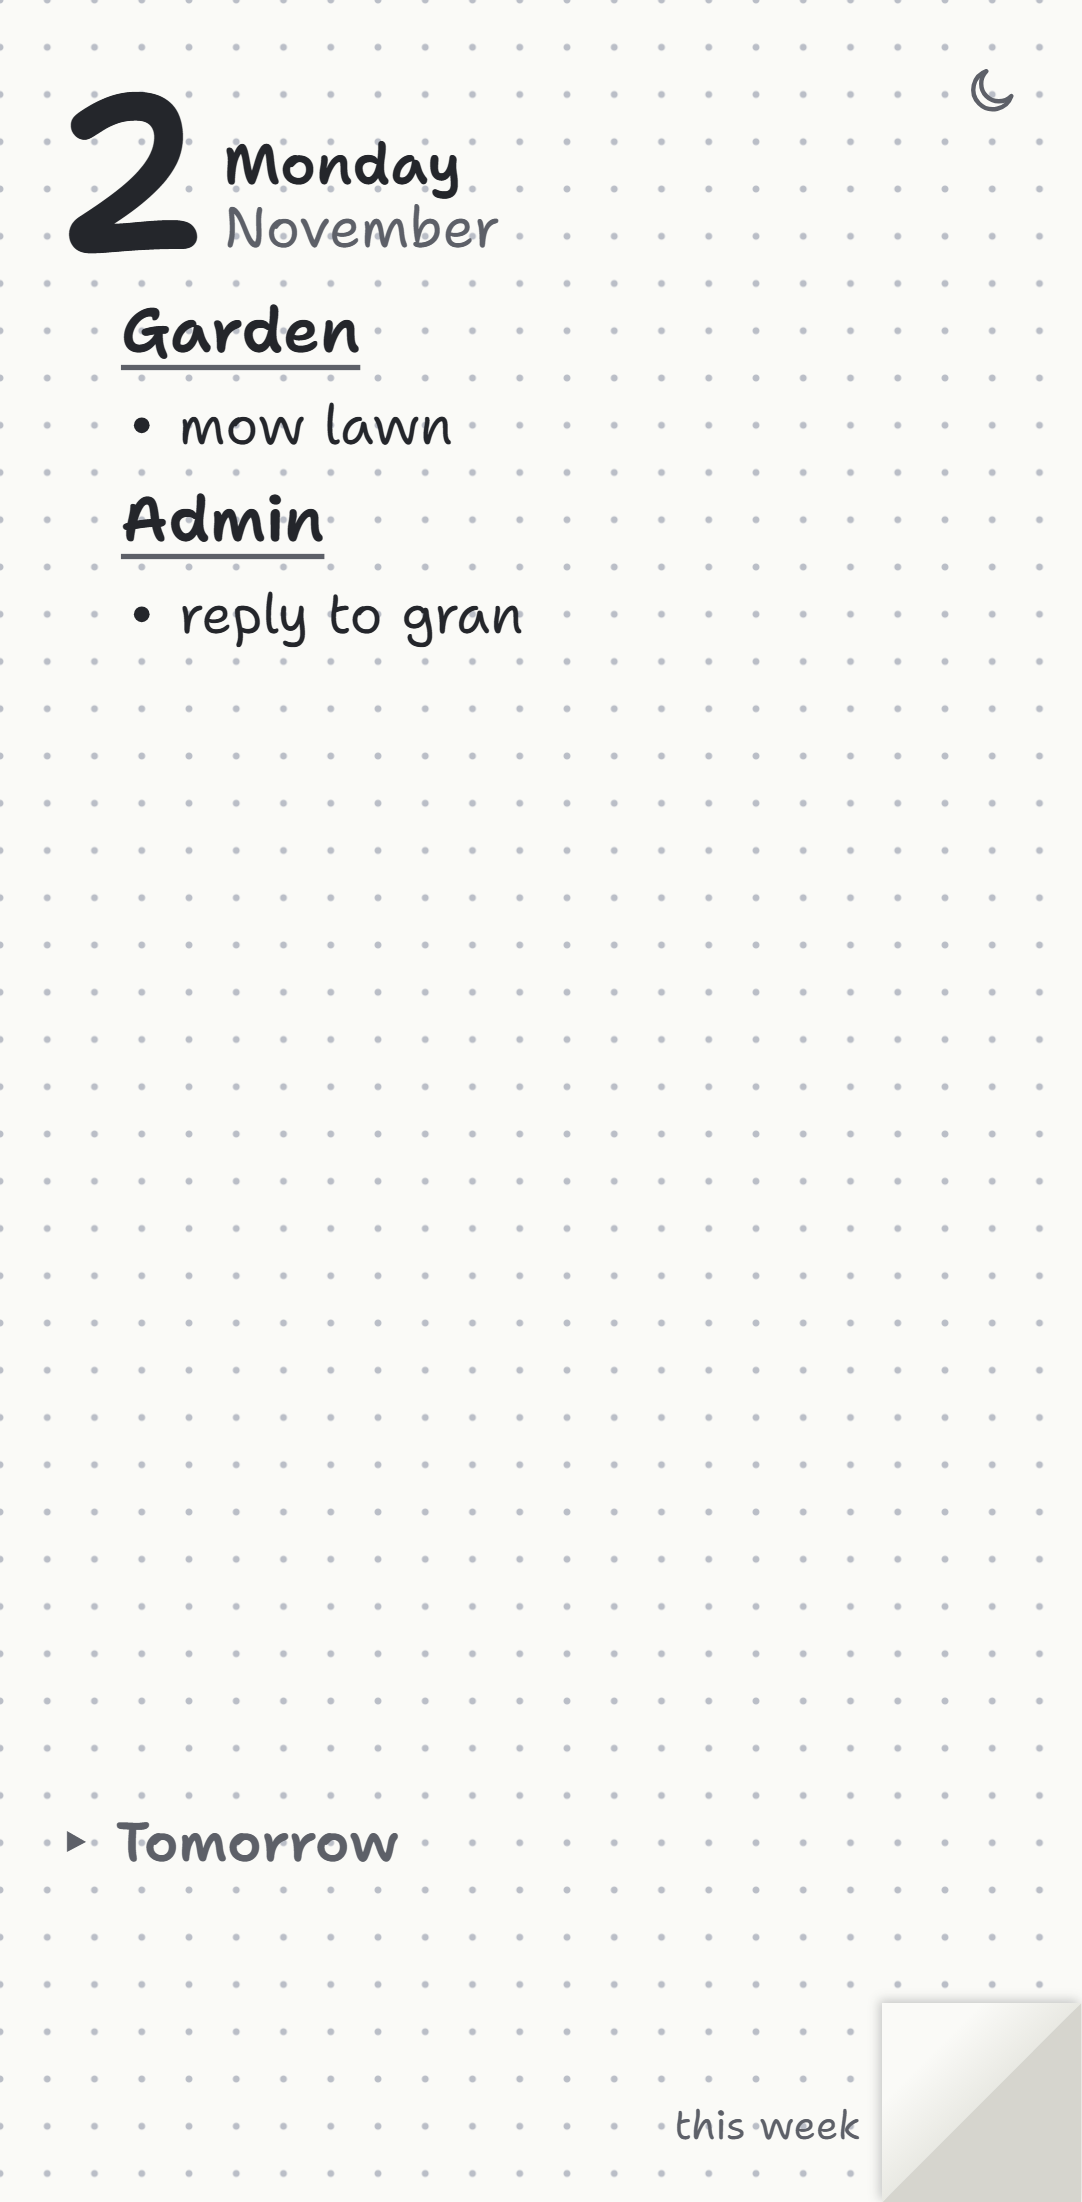
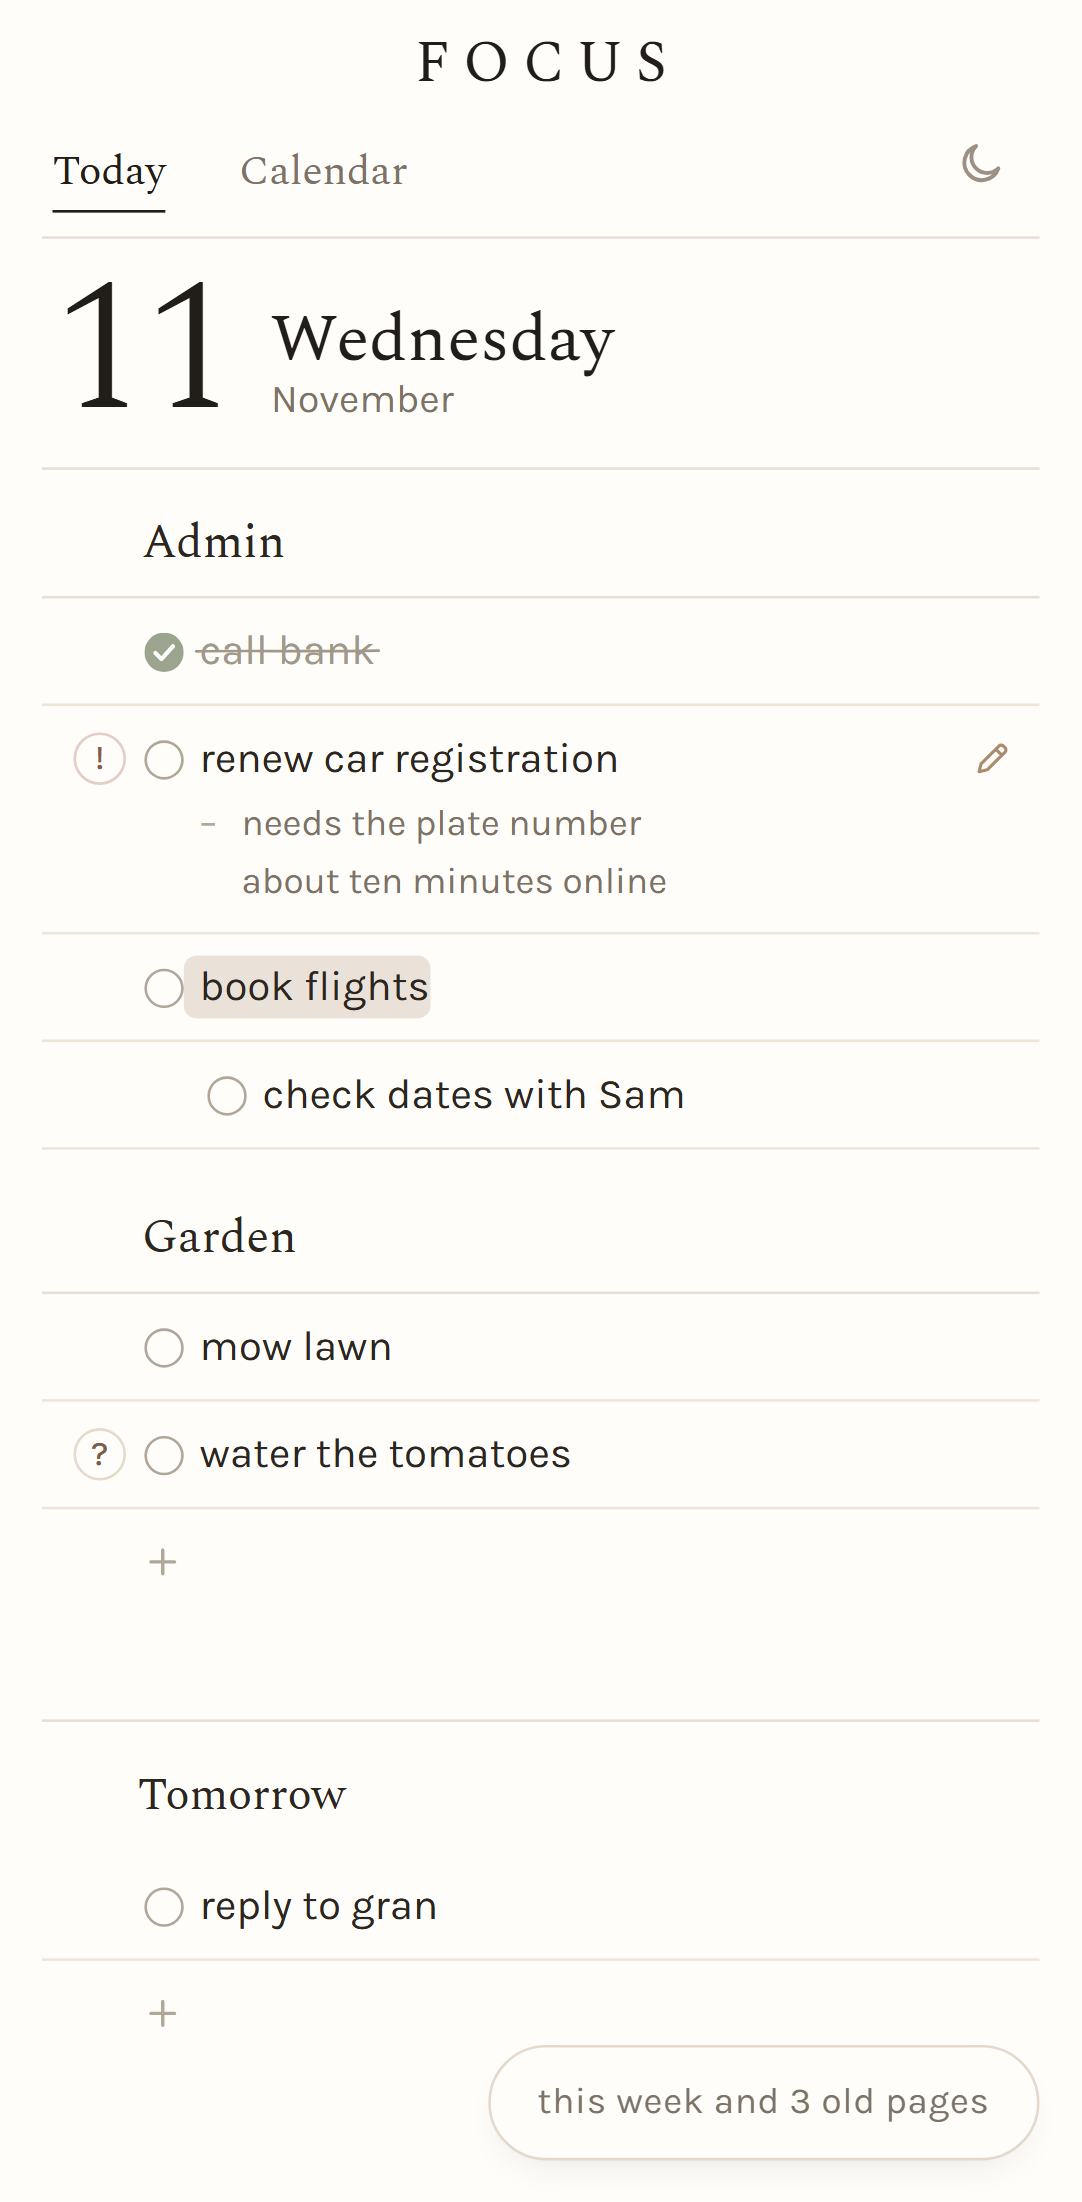
docs: describe FOCUS in the README and spec
New name, screenshots of the new look and the calendar, the calendar in
the feature list and test counts, and where the name came from. The spec
replaces the dot-grid layout with the FOCUS one, adds the header and the
calendar, and restates the core rule now that coming days can hold lines.

diff --git a/docs/spec.md b/docs/spec.md
@@ -1,6 +1,6 @@
-# Today: design spec
+# FOCUS: design spec
 
-Written 2026-10-02.
+Written 2026-10-02 as Today. Renamed and restyled as FOCUS, with a header and a calendar, on 2026-11-11.
 
 ## 1. Purpose
 
@@ -17,7 +17,7 @@ Plus: paper is a pleasant canvas with room for personal expression.
 
 **Success.** The user opens this each morning instead of reaching for paper, and keeps doing so after the novelty wears off.
 
-**Core rule.** The app holds today, and nothing else. No backlog, projects, tags, due dates, priorities, reminders, stats or streaks. Headings can group a page's lines the way they would on paper, but they are written words, not projects: nothing about them is kept between days.
+**Core rule.** The app opens on today, and today is where the work happens. A calendar holds lines written for coming days and shows the days gone by, and that is all it does. No projects, tags, due dates, priorities, reminders, stats or streaks: a line's date is the day it is written on, not a deadline. Headings can group a page's lines the way they would on paper, but they are written words, not projects: nothing about them is kept between days.
 
 ## 2. Platforms
 
@@ -25,11 +25,11 @@ Phone and laptop. Installable web app (PWA), one codebase, synced between device
 
 ## 3. Experience
 
-Layout: a dot-grid journal. Dot-grid paper, a handwritten-style font, the day's date as a large numeral at the top. Wide screens show the journal open: today on the left page, This week and old pages on the right. The open journal fills the window and grows with it (up to one and a half times its normal size on very wide screens). Phones show one page at a time, and a folded corner turns to the other. Parked alternatives: free page and desk scraps.
+Layout: the FOCUS design. Warm paper colours, a serif (Spectral) for headings and a sans (Karla) for lines, hairline rules and pill buttons. A header runs across the top: the FOCUS wordmark, links to the two views (Today and Calendar), and the cloud and moon. On Today the day's date is a large numeral at the top. Wide screens show two panels side by side, centred and at most 68rem across: today on the left, This week and old pages on the right. Type grows only a little with the window (up to 1.125 times on very wide screens). Phones show one page at a time, and a button in the corner turns to the other. Retired: the dot-grid journal the app began with. Parked alternatives: free page and desk scraps.
 
 | Action | Desktop | Phone |
 |---|---|---|
-| Open | Lands on today's page, cursor on first empty line. No splash, no menu. | Same |
+| Open | Lands on today's page, cursor on first empty line. No splash. | Same |
 | Write a task | Type, Enter for next line | Type, Return for next line |
 | Edit a task | Click the text | Tap the text |
 | Make a sub-step | Tab (Shift+Tab to undo) | ⇥ / ⇤ buttons in a bar above the keyboard while editing |
@@ -38,9 +38,9 @@ Layout: a dot-grid journal. Dot-grid paper, a handwritten-style font, the day's 
 | Margin mark | Click the margin to cycle: none, star (highlights the line), !, ? | Tap the margin |
 | Make a heading | Start the line with `# ` or end it with `:` | Same |
 | Delete | Backspace on an empty line, or drag the line into the bin at the bottom right of the week page | Backspace on an empty line, or long-press and drag the line into the bin that appears above the corners |
-| Night pages | Click the moon in today's header | Tap the moon |
+| Night pages | Click the moon in the header | Tap the moon |
 
-- Each line starts with a bullet dot. Crossing off turns the dot into a cross and draws a thin pen stroke across the text. Crossed-off tasks stay on the page, greyed.
+- Each line starts with a ring. Crossing off fills the ring with a tick and draws a thin stroke across the text. Crossed-off tasks stay on the page, greyed.
 - Sub-steps are one level deep only (indent 0 or 1).
 - ! and ? sit in the margin; a star highlights the line instead. Freehand drawing is not in v1.
 - Crossing off is a horizontal stroke across the line, like running a pen through it. The same stroke across a crossed-off task un-crosses it. Tap/click only ever places the cursor for editing.
@@ -53,19 +53,22 @@ Layout: a dot-grid journal. Dot-grid paper, a handwritten-style font, the day's 
 
 **Notes.** Any task or goal can hold a free-text note, like writing on the back of the card. A small pencil at the end of a line (shown while you're on the line, always when a note exists) unfolds the note in place under the line; Escape or the pencil folds it. Enter adds a new line inside the note. Notes move with their line everywhere and are read-only on old pages. A line with blank text but a note still counts as a real line.
 
-**Week goals.** This week holds a few bigger aims for the week, at the top of the right-hand page (the second page on phones). Type a goal in, or drag a task from today onto it (the task moves); on a phone, drop the task on the folded corner. Drag a goal back onto today's page to move it back; on a phone, drop it on the "back to today" corner. Goals cross off with the same stroke as tasks and can be reordered. A week runs Monday to Sunday on the same 4am boundary. When a new week starts, the week offers last week's unfinished goals with a Bring all / pick / dismiss note.
+**Week goals.** This week holds a few bigger aims for the week, at the top of the right-hand page (the second page on phones). Type a goal in, or drag a task from today onto it (the task moves); on a phone, drop the task on the corner button. Drag a goal back onto today's page to move it back; on a phone, drop it on the "back to today" corner. Goals cross off with the same stroke as tasks and can be reordered. A week runs Monday to Sunday on the same 4am boundary. When a new week starts, the week offers last week's unfinished goals with a Bring all / pick / dismiss note.
 
 **Bin.** Any line (a task, a goal or an old line) can be dragged into the bin to throw it away. A slip then shows the line's words with an undo for five seconds, held while the pointer or focus is on it. Undo, or Ctrl+Z while the slip shows, puts the line back where it was. Only the last bin can be undone.
 
-**Night pages.** A moon in today's header turns the journal dark: black pages, white ink, pink crossing off. The choice is remembered on the device.
+**Night pages.** A moon in the header turns the app dark: warm near-black panels and light text. The choice is remembered on the device.
 
-**Not in v1:** browsing past days beyond old pages, settings (the night switch is the only one), reminders/notifications, stats/streaks, themes beyond night pages, freehand drawing, sharing.
+**Calendar.** The second view. A month, Monday first, where each day shows a small copy of its list: one ring per line, filled when the line is crossed off, up to four marks ("+n" stands in for the rest). Arrows turn the month, "Go to today" comes back, and the arrow keys move the picked day. The picked day's lines show beside the month (under it on phones). Today or a coming day is a page to write on, with the same lines, sub-steps, marks, notes, reordering and bin as today's page. A past day shows its lines as they were left, read only: they can be crossed off, and an open line can be sent to the end of today with >. The view is kept in the address (`#calendar`), so a reload stays on it.
+
+**Not in v1:** a time of day on a line, settings (the night switch is the only one), reminders/notifications, stats/streaks, themes beyond night pages, freehand drawing, sharing.
 
 ## 4. Day rules
 
 - Logical day = date of (device local time minus 4 hours). 02:30 Friday belongs to Thursday.
 - The page shown is always the current logical day. If the app is left open across 04:00, it switches to the new day on next focus or interaction.
 - Tomorrow's lines are tasks dated the next logical day. At 04:00 they are the new day's lines, with nothing copied.
+- A line written on any coming day in the calendar is a task dated that day, the same as Tomorrow's lines. When that day arrives it is on today's page, with nothing copied.
 - A day ends at 04:00 on the next calendar day. An old page shows that day's lines that were unfinished when it ended: still open, or crossed off since (`done_at` after the day end). Blank and deleted lines never count.
 - An old page appears for every earlier day with at least one such line, unless its day record is `binned`.
 - Moving a line off an old page soft-deletes it there and creates it on today (same `text`, `indent`, `mark`) or as a goal, always open.
@@ -147,12 +150,12 @@ Stack: React + TypeScript + Vite, vite-plugin-pwa, Dexie, Supabase JS client, Ve
 
 | unit | job | depends on |
 |---|---|---|
-| `day` | pure functions: logical day from a Date, old page lines, week maths | nothing |
+| `day` | pure functions: logical day from a Date, old page lines, week maths, the calendar's month grid | nothing |
 | `order` | pure functions: fractional position between two positions | nothing |
 | `store` | local reads/writes of tasks and days; sets `updated_at`; exposes live queries to the UI | Dexie |
 | `sync` | push/pull between store and Supabase; conflict resolution | store, Supabase client |
 | `auth` | username and password sign-in, session state | Supabase client |
-| UI | notebook page, task line, old pages, sync card | store, day, order, auth |
+| UI | header, today's page, task line, old pages, calendar, sync card | store, day, order, auth |
 
 The UI never calls Supabase directly. It only reads and writes `store`.
 
@@ -175,9 +178,9 @@ Rule: nothing ever stops the user writing.
 
 ## 8. Testing
 
-1. **Unit (Vitest):** `day` (04:00 boundary both sides, old page lines either side of the day end), `order` (positions between, before first, after last, many inserts), `sync` merge (newer wins, deletes propagate), heading detection (`# ` and trailing `:`, a symbol alone is not a heading, `#1` is not a heading), old page lines with headings.
-2. **Component (Vitest + Testing Library):** Enter creates a line, Tab/Shift+Tab indents, Backspace on empty line deletes, horizontal drag/swipe toggles crossed-off, click places cursor, old pages cross off and bin.
-3. **End-to-end (Playwright):** write tasks, cross one off, reload, state persists. Also used for screenshot verification. To be added once there is UI (user to confirm).
+1. **Unit (Vitest):** `day` (04:00 boundary both sides, old page lines either side of the day end), `order` (positions between, before first, after last, many inserts), `sync` merge (newer wins, deletes propagate), heading detection (`# ` and trailing `:`, a symbol alone is not a heading, `#1` is not a heading), old page lines with headings, the calendar (whole weeks from Monday, each day's marks).
+2. **Component (Vitest + Testing Library):** Enter creates a line, Tab/Shift+Tab indents, Backspace on empty line deletes, horizontal drag/swipe toggles crossed-off, click places cursor, old pages cross off and bin, the calendar (pick a day, write on a coming day, past days read only, arrow keys).
+3. **End-to-end (Playwright):** write tasks, cross one off, reload, state persists; a line written in the calendar is on today's page when its day comes. Also used for screenshot verification. To be added once there is UI (user to confirm).
 4. **Manual device pass:** install on phone and laptop; airplane mode, edit, reconnect; both devices match.
 
 ## 9. Open questions

diff --git a/README.md b/README.md
@@ -1,34 +1,37 @@
-# Today
+# FOCUS
 
 [![CI](https://github.com/rosshunterdev/today/actions/workflows/ci.yml/badge.svg)](https://github.com/rosshunterdev/today/actions/workflows/ci.yml)
 
-A task list for today only, built to feel like the list you write on paper each morning. It's an installable web app (PWA) for phone and laptop that works fully offline, with optional sync between devices. I built it because every task app I tried felt worse than paper, and planning one day at a time is the part that paper gets right.
+A task list built around today, with a calendar for the days ahead. It's an installable web app (PWA) for phone and laptop that works fully offline, with optional sync between devices. I built it because every task app I tried felt worse than paper, and planning one day at a time is the part that paper gets right.
 
 **Live demo:** [today-seven-kappa.vercel.app](https://today-seven-kappa.vercel.app). Everything works without an account; your lines stay in your browser.
 
 <p>
-  <img src="docs/screenshots/desktop.png" alt="Today on desktop: a dot-grid journal lying open, today's list on the left page, this week's goal and an old page's unfinished task on the right" width="560">
+  <img src="docs/screenshots/desktop.png" alt="FOCUS on desktop: the header with Today and Calendar, today's list in the left panel under two headings, this week's goals and three old pages in the right panel" width="560">
   &nbsp;
-  <img src="docs/screenshots/phone.png" alt="Today on a phone: one dot-grid page with two headings, a folded Tomorrow section and a folded corner for the week" width="200">
+  <img src="docs/screenshots/phone.png" alt="FOCUS on a phone: today's list under the header, Tomorrow at the foot of the page and a button for the week" width="200">
 </p>
 <p>
-  <img src="docs/screenshots/desktop-night.png" alt="Night pages: the same journal with dark pages and light ink" width="560">
+  <img src="docs/screenshots/calendar.png" alt="The calendar: a month where each day shows a ring for every line, and the picked day's list beside it" width="560">
+</p>
+<p>
+  <img src="docs/screenshots/desktop-night.png" alt="Night pages: the same panels in dark colours" width="560">
 </p>
 
 ## Status
 
-Personal project, started in October 2026.
+Personal project, started in October 2026 as Today, a dot-grid journal. In November 2026 it took the name and look of FOCUS, a task manager I designed earlier as a study project. The repo, the device store and the hosted project keep the first name.
 
 - **Works:** everything in the feature list below, offline and installed, on desktop and phone browsers.
 - **Sync accounts are closed to new sign-ups.** Sync is limited to my own account, so the demo is offline-only for everyone else.
-- **Not built:** password reset (there's no email), reminders, browsing past days beyond old pages, a native app.
+- **Not built:** password reset (there's no email), reminders, a time of day on a task, a native app.
 - **Tested in CI on Chromium only** (desktop and a Pixel 7 profile). Safari and Firefox aren't covered by automated tests.
 
 ## Features
 
-- **Dot-grid journal:** a handwritten-style font and the date as a big numeral. On a wide screen the journal lies open: today on the left, the week and old pages on the right.
+- **Two panels:** today's list under the date as a big numeral, with the week and old pages beside it. Phones show one panel at a time.
 - **Write line by line:** Enter for a new line, Tab / Shift+Tab for one level of sub-steps, Backspace on an empty line to delete it.
-- **Cross off with a stroke:** drag or swipe across a line to cross it off. Do it again to undo.
+- **Cross off with a stroke:** drag or swipe across a line to cross it off, or click its ring. Do it again to undo.
 - **Headings:** start a line with `# ` or end it with `:` to make it a heading.
 - **Marks:** tap the margin to highlight a line, or mark it ! or ?.
 - **Reorder:** drag the grip on desktop, or long-press and drag on a phone.
@@ -36,8 +39,9 @@ Personal project, started in October 2026.
 - **Old pages:** unfinished tasks from earlier days stay listed under the week until you move or bin them.
 - **Tomorrow:** a folded section at the bottom of today's page for writing tomorrow's list the evening before.
 - **Notes:** a pencil at the end of a line unfolds a note under it.
-- **This week:** a short list of goals for the week on the facing page.
-- **Night pages:** a dark journal, remembered per device.
+- **This week:** a short list of goals for the week in the second panel.
+- **Calendar:** a month where each day shows one ring per line, open or done. Write on any coming day and the line is on today's page when that day arrives. Past days are read only.
+- **Night pages:** dark colours, remembered per device.
 - **4am day boundary:** 02:30 on Friday still counts as Thursday.
 - **Optional sync:** sign in with a username and password and the same pages show up on every device.
 
@@ -113,9 +117,9 @@ npm run test:rls  # row-level security and sign-in tests (needs supabase start a
 
 | Suite | Tests | What it covers |
 |---|---|---|
-| Unit and component (Vitest) | 310 in 38 files | day rules, ordering, the store, the sync engine and loop, and the UI with Testing Library on fake-indexeddb |
+| Unit and component (Vitest) | 331 in 40 files | day rules, the calendar's month maths, ordering, the store, the sync engine and loop, and the UI with Testing Library on fake-indexeddb |
 | Row-level security (Vitest) | 31 in 3 files | each table's policies against a real local Supabase: owners only, no hard deletes, signed-out visitors get nothing, account deletion |
-| End-to-end (Playwright) | 23 in 8 files, 30 runs across desktop Chrome and a Pixel 7 profile (some tests apply to one profile only) | writing, crossing off, reordering, the bin, notes, headings, the week, old pages, tomorrow, night pages, and data surviving a reload |
+| End-to-end (Playwright) | 25 in 9 files, 34 runs across desktop Chrome and a Pixel 7 profile (some tests apply to one profile only) | writing, crossing off, reordering, the bin, notes, headings, the week, old pages, tomorrow, the calendar, night pages, and data surviving a reload |
 
 Unit tests run in the `Pacific/Auckland` time zone so the 4am rollover behaves the same on every machine.
 
